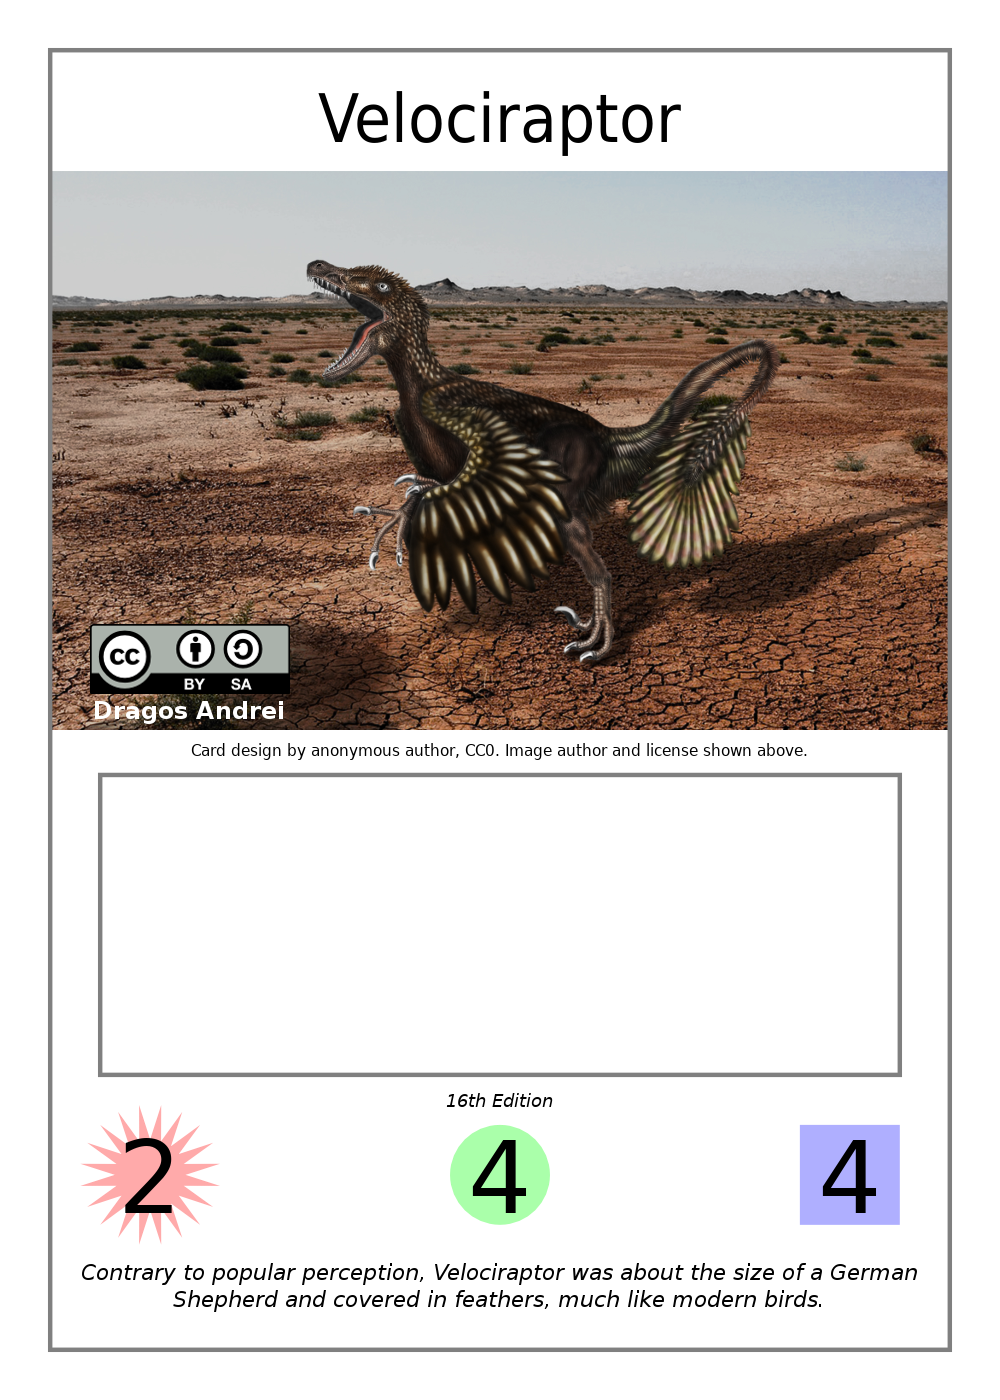
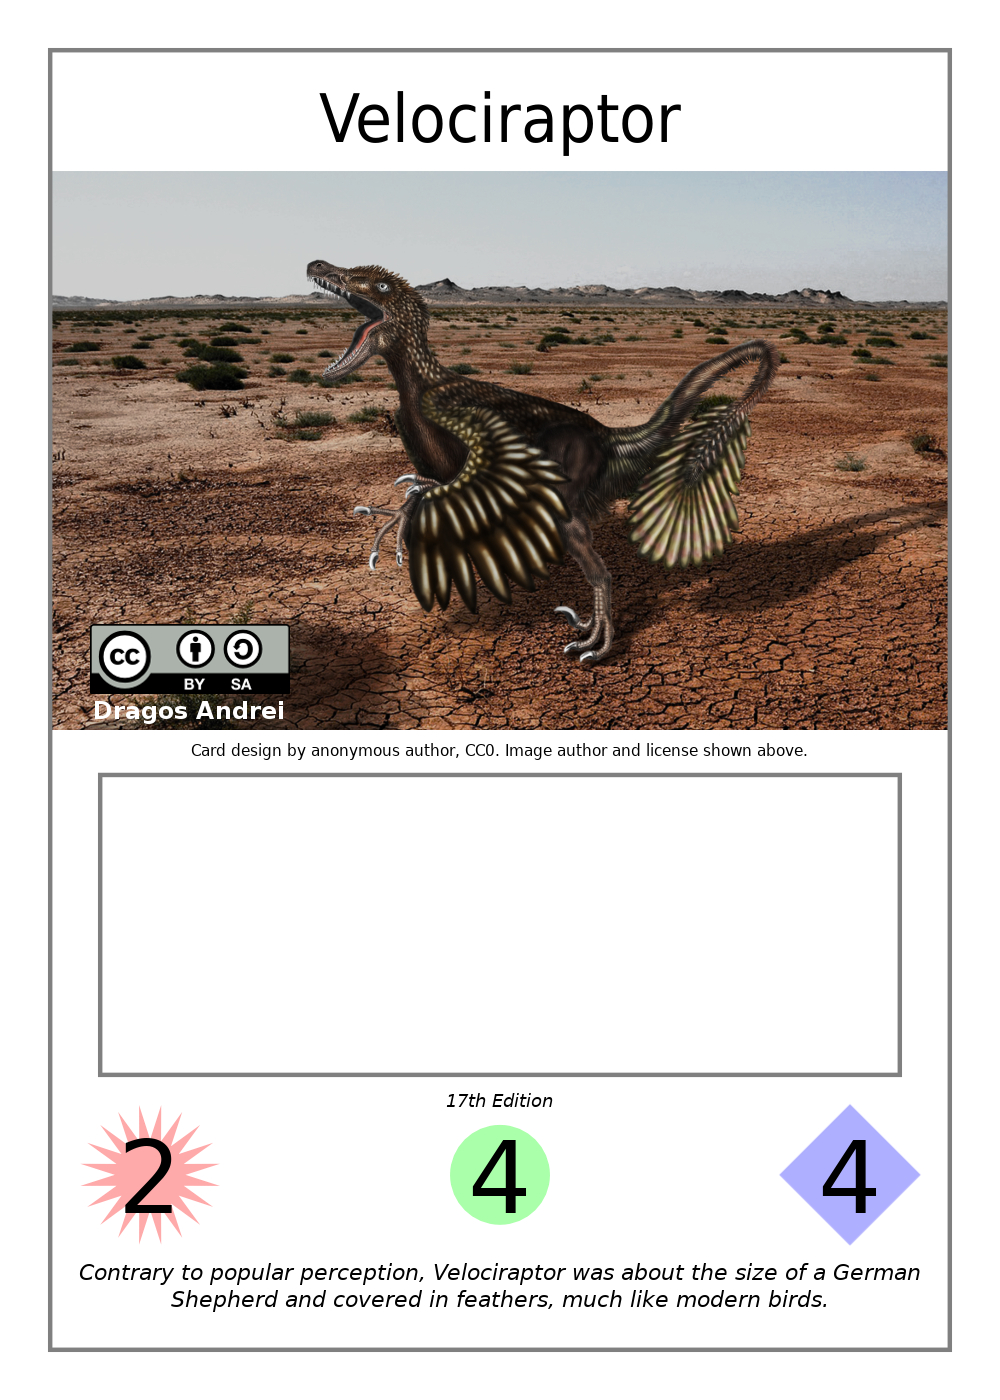
Updated the card building examples.

diff --git a/examples.html b/examples.html
@@ -2,7 +2,7 @@
 <html lang="en">
 
 <head>
-    <title>Card Building Examples (16th Edition) - Keeper of the Cards</title>
+    <title>Card Building Examples (17th Edition) - Keeper of the Cards</title>
     <meta name="description" content="The ultimate DIY trading card game" />
     <meta name="keywords" content="kotc" />
     <meta http-equiv="content-type" content="text/html; charset=utf-8" />
@@ -24,7 +24,7 @@
     <h1 class="header">Keeper of the Cards</h1>
 
     <main>
-        <h2>Card Building Examples (16<sup>th</sup> Edition)</h2>
+        <h2>Card Building Examples (17<sup>th</sup> Edition)</h2>
         <p>This page is a supplement to the <a href="cardbuilding.html">Card Building Guide</a>. It goes over how to recreate specific examples of cards from the starter decks, starting with the least complex and gradually moving upward in complexity.</p>
 
         <h3>Contents</h3>
@@ -70,15 +70,16 @@
             <li>Since the spell has no target selection, the sub-ability text is just the effect text. Since the spell has no activation condition and no activation cost, the ability text is just the sub-ability text. This gives us: &ldquo;2-dice-heal yourself.&rdquo;</li>
             <li>The spell's final level in this example is 2.</li>
         </ol>
+        <p>Note: the image also contains tutorial text explaining the dice-heal mechanic. Tutorial text is optional and has no effect on what the card actually does.</p>
 
-        <h3 id="asteroid">Spell: Asteroid Impact</h3>
-        <img class="example" src="images/build-examples/asteroid_impact.png" alt="Asteroid Impact: level 8 spell with ability: &ldquo;Target up to 4 on-field minions; destroy the targets.&rdquo;">
+        <h3 id="asteroid">Spell: Tornado</h3>
+        <img class="example" src="images/build-examples/tornado.png" alt="Tornado: level 4 spell with ability: &ldquo;Target up to 2 on-field minions; destroy the targets.&rdquo;">
         <p>This spell is slightly more complex than Antibiotic, but still fairly simple, composed of a single target selection and a single effect. The following steps recreate this spell:</p>
         <ol>
             <li>Begin with the spell's level set to 0.</li>
             <li>Choose the effect you want from <a href="cardbuilding.html#effects">Card Building Guide: Effects</a>. In this case, it's: &ldquo;destroy the targets.&rdquo;</li>
             <li>Since the chosen effect does something with targets, we must include a target selection for this to do anything. Choose the target selection you want from <a href="cardbuilding.html#targeting">Card Building Guide: Target Selections</a>. In this case, we choose, &ldquo;Target up to <var>x</var> on-field minions;&rdquo;</li>
-            <li>Since the target selection has a variable <var>x</var>, replace that variable with a number. In this case, we choose the number 4. This gives us: &ldquo;Target up to 4 on-field minions;&rdquo;</li>
+            <li>Since the target selection has a variable <var>x</var>, replace that variable with a number. In this case, we choose the number 2. This gives us: &ldquo;Target up to 2 on-field minions;&rdquo;</li>
             <li>Check the target selection's formula for the variable <var>t</var>. In this case, the formula is
                 <math display="inline">
                     <mrow>
@@ -88,16 +89,16 @@
                     </mrow>
                     <mtext>.</mtext>
                 </math>
-                Replace the variable <var>x</var> in this formula with the number chosen in the previous step; in this case, 4. Doing so, we get
+                Replace the variable <var>x</var> in this formula with the number chosen in the previous step; in this case, 2. Doing so, we get
                 <math display="inline">
                     <mrow>
                         <mi>t</mi>
                         <mo>=</mo>
-                        <mn>4</mn>
+                        <mn>2</mn>
                     </mrow>
                     <mtext>.</mtext>
                 </math>
-                Therefore, the variable <var>t</var> is set to 4.
+                Therefore, the variable <var>t</var> is set to 2.
             </li>
             <li>Check the effect's level increase formula. In this case, the formula is
                 <math display="inline">
@@ -108,20 +109,20 @@
                     </mrow>
                     <mtext>.</mtext>
                 </math>
-                Replace the variable <var>t</var> in this formula with the number calculated in the previous step; in this case, 4. Doing so, we get
+                Replace the variable <var>t</var> in this formula with the number calculated in the previous step; in this case, 2. Doing so, we get
                 <math display="inline">
                     <mrow>
                         <mn>2</mn>
                         <mo>×</mo>
-                        <mn>4</mn>
+                        <mn>2</mn>
                     </mrow>
                     <mtext>.</mtext>
                 </math>
-                We can now solve the level increase formula; doing so, we get 8 and therefore add 8 to the spell's level, bringing it to 8.
+                We can now solve the level increase formula; doing so, we get 4 and therefore add 4 to the spell's level, bringing it to 4.
             </li>
-            <li>The spell's sub-ability text is the target selection followed by the effect.  In this case, we get: &ldquo;Target up to 4 on-field minions; destroy the targets.&rdquo;</li>
-            <li>Since the spell has no activation conditions and no activation costs, the ability text is just the sub-ability text. This gives us: &ldquo;Target up to 4 on-field minions; destroy the targets.&rdquo;</li>
-            <li>The spell's final level in this example is 8.</li>
+            <li>The spell's sub-ability text is the target selection followed by the effect. In this case, we get: &ldquo;Target up to 2 on-field minions; destroy the targets.&rdquo;</li>
+            <li>Since the spell has no activation conditions and no activation costs, the ability text is just the sub-ability text. This gives us: &ldquo;Target up to 2 on-field minions; destroy the targets.&rdquo;</li>
+            <li>The spell's final level in this example is 4.</li>
         </ol>
 
         <h3 id="thunderstrike">Spell: Thunderstrike</h3>

diff --git a/rulebook.html b/rulebook.html
@@ -146,6 +146,7 @@
             <li>Wait for the ability to resolve in the chain. When it does, do what every sub-ability says to do in sequence. If any effect is impossible as stated on the card text, it does nothing.</li>
         </ol>
         <p>Many abilities make use of special keywords; see <a href="#keywords">Keywords</a> for a list of explanations for all of these keywords.</p>
+        <p>Abilities can optionally have <dfn>tutorial text</dfn> in parentheses, generally rendered in italics, after the end of the ability text. Tutorial text only exists to teach mechanics, and has no actual effect on the game.</p>
 
         <h3 id="counters">Counters</h3>
         <p>A <dfn>counter</dfn> is an element, generally represented by arbitrary objects such as coins or Poker ships, which can be placed on an on-field minion, preparing an effect for future use. It stays on the minion it is placed on until either the minion is moved to a zone other than the battlefield, or the counter is removed by some other means.</p>
